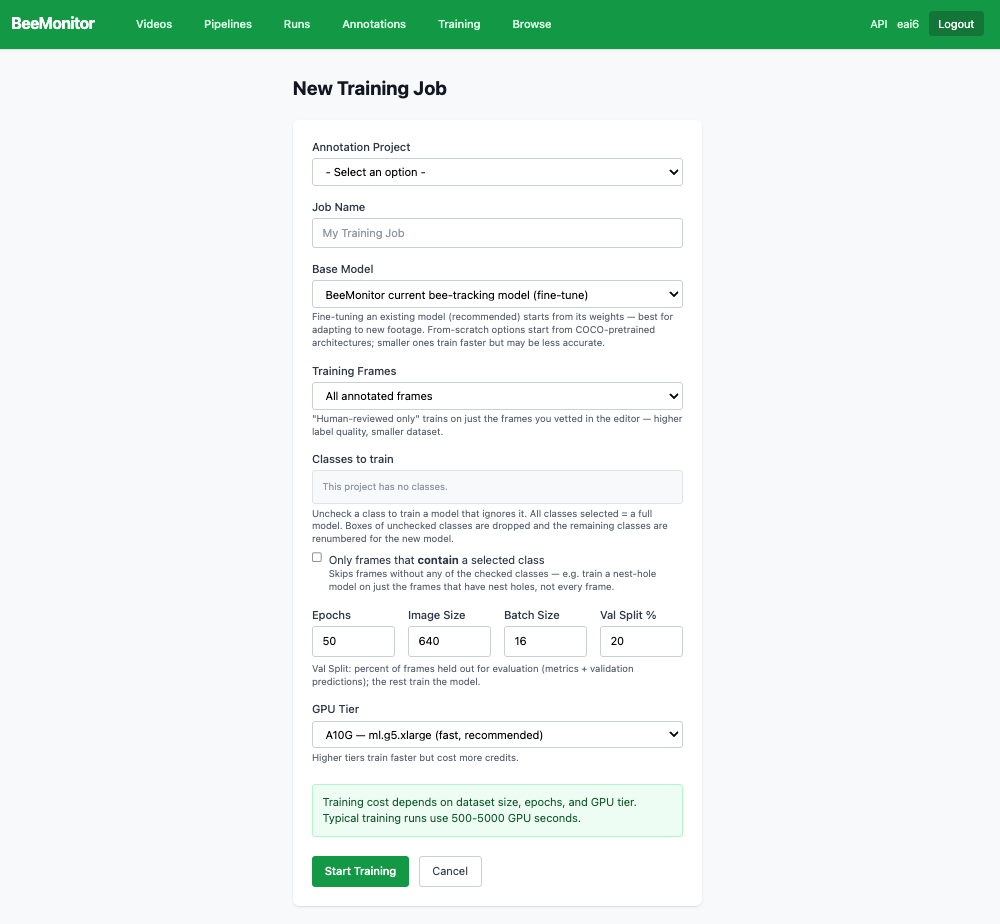
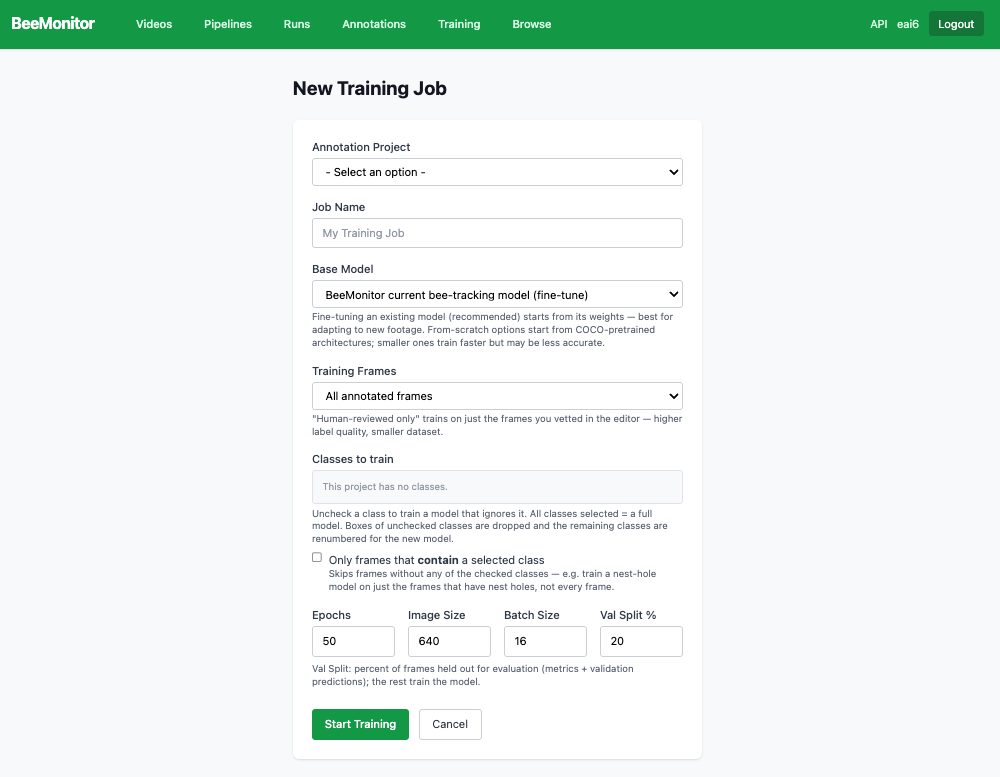
Remove the GPU tier choice: training runs on the A10G
The training form's GPU Tier picker and the account page's GPU-usage-by-tier
table are gone. Training uses the model's default (A10G, ml.g5.xlarge);
analysis has always run on whatever the endpoint has. Docs and the training
screenshot updated.

Changed region(s): [[0.31, 0.1544, 0.682, 0.9884], [0.0, 0.0, 1.0, 0.1236], [0.651, 0.2162, 0.682, 0.2471]]

diff --git a/beemonitor_web/apps/accounts/templates/accounts/usage.html b/beemonitor_web/apps/accounts/templates/accounts/usage.html
@@ -80,33 +80,6 @@
   </div>
 </div>
 
-<!-- GPU Usage Breakdown -->
-{% if gpu_stats %}
-<div class="bg-white shadow rounded-lg p-6 mb-6">
-  <h2 class="text-lg font-medium text-gray-900 mb-4">GPU Usage by Tier</h2>
-  <table class="min-w-full text-sm">
-    <thead>
-      <tr class="border-b border-gray-200">
-        <th class="py-2 text-left text-gray-500">GPU</th>
-        <th class="py-2 text-right text-gray-500">Jobs</th>
-        <th class="py-2 text-right text-gray-500">GPU Time</th>
-        <th class="py-2 text-right text-gray-500">Cost</th>
-      </tr>
-    </thead>
-    <tbody>
-      {% for stat in gpu_stats %}
-      <tr class="border-b border-gray-100">
-        <td class="py-2 font-medium">{{ stat.gpu_tier|default:"A10G" }}</td>
-        <td class="py-2 text-right">{{ stat.count }}</td>
-        <td class="py-2 text-right">{% if stat.total_seconds %}{{ stat.total_seconds|floatformat:0 }}s{% else %}--{% endif %}</td>
-        <td class="py-2 text-right">${{ stat.total_cost|default:"0"|floatformat:2 }}</td>
-      </tr>
-      {% endfor %}
-    </tbody>
-  </table>
-</div>
-{% endif %}
-
 <!-- Lifetime Stats -->
 <div class="bg-white shadow rounded-lg p-6 mb-6">
   <h2 class="text-lg font-medium text-gray-900 mb-4">Lifetime Stats</h2>

diff --git a/beemonitor_web/apps/training/templates/training/new.html b/beemonitor_web/apps/training/templates/training/new.html
@@ -71,15 +71,10 @@
         </div>
       </div>
       <p class="-mt-2 mb-4 text-xs text-gray-500">Val Split: percent of frames held out for evaluation (metrics + validation predictions); the rest train the model.</p>
-      <div class="mb-6">
-        <label for="id_gpu_tier" class="block text-sm font-medium text-gray-700 mb-1">GPU Tier</label>
-        {{ form.gpu_tier }}
-        <p class="mt-1 text-xs text-gray-500">Higher tiers train faster but cost more credits.</p>
-      </div>
 
       <!-- Estimated cost hint -->
       <div class="bg-amber-50 border border-amber-200 rounded p-3 mb-6 text-sm text-amber-800">
-        Training cost depends on dataset size, epochs, and GPU tier. Typical training runs use 500-5000 GPU seconds.
+        Training time depends on the number of frames and epochs. Typical training runs use 500-5000 GPU seconds.
       </div>
 
       <div class="flex space-x-3">

diff --git a/beemonitor_web/apps/training/forms.py b/beemonitor_web/apps/training/forms.py
@@ -31,7 +31,7 @@ class TrainingCreateForm(forms.ModelForm):
         model = TrainingJob
         fields = ["project", "name", "base_model", "frame_filter",
                   "frames_with_class",
-                  "epochs", "image_size", "batch_size", "val_percent", "gpu_tier"]
+                  "epochs", "image_size", "batch_size", "val_percent"]
         widgets = {
             "name": forms.TextInput(attrs={
                 "class": "w-full border border-gray-300 rounded px-3 py-2 text-sm focus:outline-none focus:ring-2 focus:ring-amber-500 focus:border-amber-500",
@@ -64,20 +64,10 @@ class TrainingCreateForm(forms.ModelForm):
                 "min": 5,
                 "max": 50,
             }),
-            "gpu_tier": forms.Select(attrs={
-                "class": "w-full border border-gray-300 rounded px-3 py-2 text-sm focus:outline-none focus:ring-2 focus:ring-amber-500 focus:border-amber-500",
-            }),
         }
 
-    # Training is per-instance-hour (no scale-to-zero), so restrict to the
-    # affordable single-GPU instances — drop L40S/A100 (ml.p4d.24xlarge is
-    # ~$37/hr). Labels name the SageMaker instance each maps to (see
-    # training/views.py _INSTANCE_BY_TIER).
-    TRAINING_GPU_CHOICES = [
-        ("T4", "T4 — ml.g4dn.xlarge (cheapest, slower)"),
-        ("L4", "L4 — ml.g6.xlarge (balanced)"),
-        ("A10G", "A10G — ml.g5.xlarge (fast, recommended)"),
-    ]
+    # No GPU choice: every training job runs on the A10G (ml.g5.xlarge), the
+    # model's default gpu_tier. Picking a GPU was a setting nobody needed.
 
     def __init__(self, *args, user=None, **kwargs):
         super().__init__(*args, **kwargs)
@@ -86,9 +76,6 @@ class TrainingCreateForm(forms.ModelForm):
             # viewer capability, and the training run spends the trainer's own
             # GPU budget rather than the project owner's.
             self.fields["project"].queryset = AnnotationProject.accessible(user)
-        self.fields["gpu_tier"].choices = self.TRAINING_GPU_CHOICES
-        if not self.initial.get("gpu_tier"):
-            self.initial["gpu_tier"] = "A10G"
 
         # Fine-tune sources (the production bee model + the user's ready
         # custom/trained models) and from-scratch architectures share the

diff --git a/beemonitor_web/apps/accounts/views.py b/beemonitor_web/apps/accounts/views.py
@@ -67,18 +67,6 @@ class UsageDashboardView(LoginRequiredMixin, TemplateView):
         ctx["failed_jobs"] = jobs.filter(status=Job.Status.FAILED).count()
         ctx["processing_jobs"] = jobs.filter(status=Job.Status.PROCESSING).count()
 
-        # Cost breakdown by GPU tier
-        gpu_stats = (
-            completed.values("gpu_tier")
-            .annotate(
-                count=Count("id"),
-                total_seconds=Sum("execution_seconds"),
-                total_cost=Sum("compute_cost_usd"),
-            )
-            .order_by("-count")
-        )
-        ctx["gpu_stats"] = list(gpu_stats)
-
         # Monthly cost data for chart
         from django.db.models.functions import TruncMonth
         monthly_costs = (

diff --git a/beemonitor_web/apps/training/views.py b/beemonitor_web/apps/training/views.py
@@ -405,7 +405,7 @@ class TrainingCreateView(LoginRequiredMixin, CreateView):
             form.cleaned_data.get("epochs", 50),
             form.cleaned_data.get("image_size", 640),
             form.cleaned_data.get("batch_size", 16),
-            form.cleaned_data.get("gpu_tier", "A10G"),
+            form.instance.gpu_tier,
         )
 
         response = super().form_valid(form)

diff --git a/docs/platform/training.md b/docs/platform/training.md
@@ -14,12 +14,12 @@ Your models then appear in a pipeline's **Detect** step.
 | **Training frames** | All frames, or **Human-reviewed only**: just the frames you checked, so the labels are better but there are fewer of them. You can also skip frames that contain none of the chosen classes |
 | **Base model** | Fine-tune an existing model (recommended, best for new footage), or train from scratch |
 | **Val split** | The share of frames held back to measure the model |
-| **GPU tier** | Higher tiers train faster and cost more credits |
 
-Training typically takes 500 to 5,000 GPU seconds, depending on the number of frames, epochs and tier.
+Training runs on an A10G GPU and typically takes 500 to 5,000 GPU seconds, depending on the number of
+frames and epochs.
 
 <figure markdown>
-  ![The New Training Job form: annotation project, job name, base model, training frames, classes, epochs, image size, batch size, validation split and GPU tier](../assets/platform/training-new.png)
+  ![The New Training Job form: annotation project, job name, base model, training frames, classes, epochs, image size, batch size, and validation split](../assets/platform/training-new.png)
   <figcaption>New training job.</figcaption>
 </figure>
 

diff --git a/docs/platform/account.md b/docs/platform/account.md
@@ -9,7 +9,6 @@ training.
 |---|---|
 | **Monthly credits** | This month's allowance and what remains |
 | **Monthly spend** | What this month's GPU work has cost |
-| **GPU usage by tier** | GPU time on each tier |
 | **Lifetime stats** | Jobs submitted and completed, and total GPU time |
 | **Plan comparison** | What each plan includes: video hours per month, concurrent GPU jobs |
 | **Have a promo code?** | Redeem a code for credits, and see the codes you've used |
